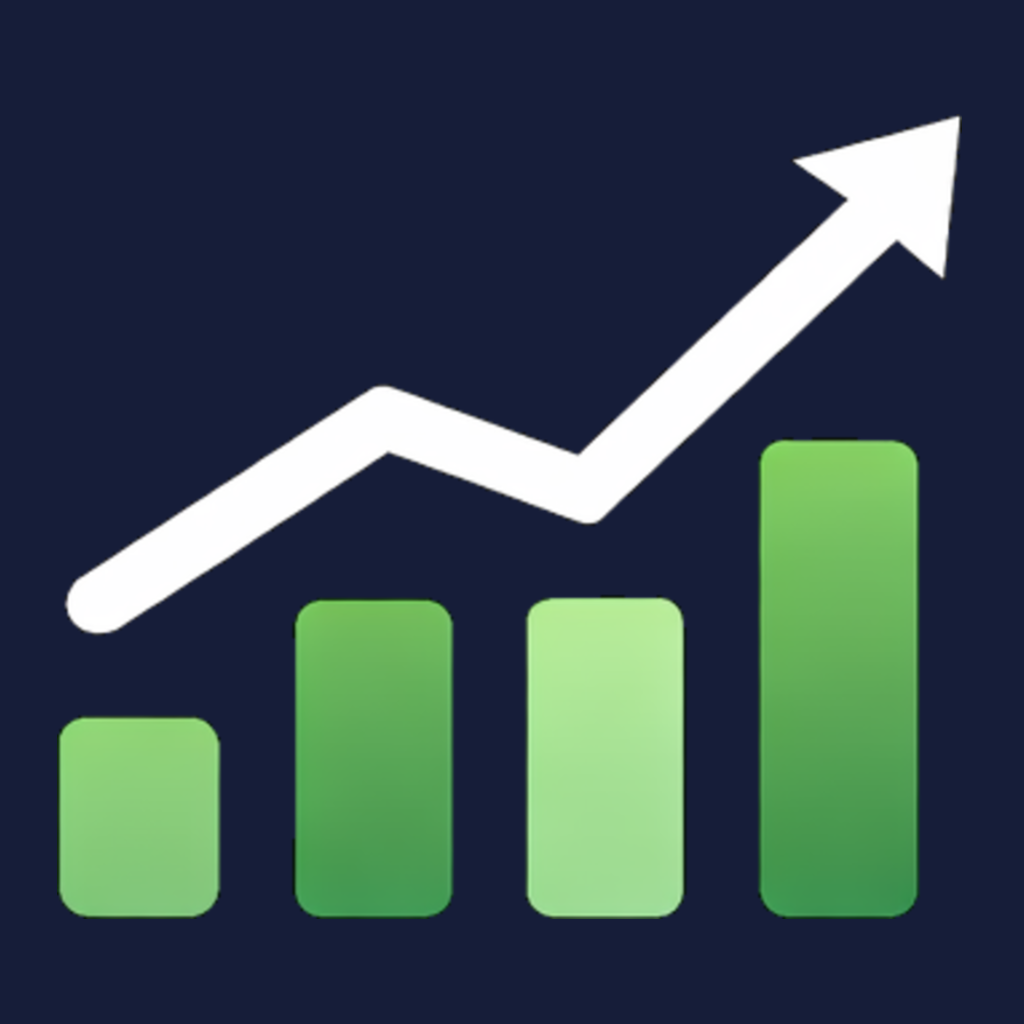
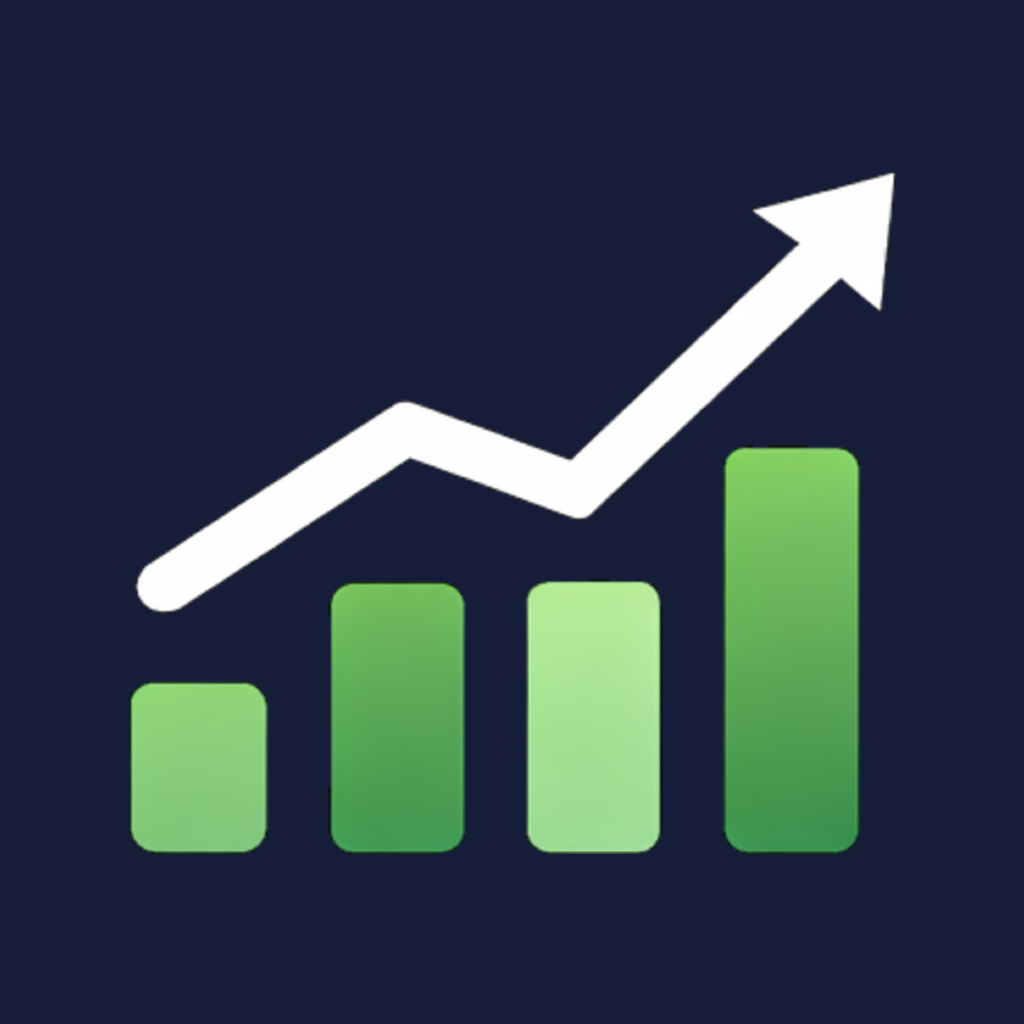
updated rpe and image size

diff --git a/mobile/src/components/activity/ActivityDetailSheet.tsx b/mobile/src/components/activity/ActivityDetailSheet.tsx
@@ -22,6 +22,14 @@ const TYPE_TEXT: Record<string, string> = {
   Run: '#4ade80',
 };
 
+const RPE_DISPLAY: Record<number, { emoji: string; label: string }> = {
+  1: { emoji: '😴', label: 'Very Easy' },
+  2: { emoji: '🙂', label: 'Easy' },
+  3: { emoji: '😤', label: 'Moderate' },
+  4: { emoji: '💪', label: 'Hard' },
+  5: { emoji: '🔥', label: 'Max' },
+};
+
 export default function ActivityDetailSheet({ activity }: ActivityDetailSheetProps) {
   const { user } = useAuthStore();
   const units = getConversionUtils(user);
@@ -114,6 +122,23 @@ export default function ActivityDetailSheet({ activity }: ActivityDetailSheetPro
           ))}
         </View>
       )}
+
+      {activity.perceived_effort && RPE_DISPLAY[activity.perceived_effort] && (
+        <View style={styles.rpeSection}>
+          <Text style={styles.rpeEmoji}>{RPE_DISPLAY[activity.perceived_effort].emoji}</Text>
+          <View>
+            <Text style={styles.rpeLabel}>Perceived Effort</Text>
+            <Text style={styles.rpeValue}>{RPE_DISPLAY[activity.perceived_effort].label}</Text>
+          </View>
+        </View>
+      )}
+
+      {activity.post_activity_notes ? (
+        <View style={styles.notesSection}>
+          <Text style={styles.notesLabel}>Notes</Text>
+          <Text style={styles.notesText}>{activity.post_activity_notes}</Text>
+        </View>
+      ) : null}
     </BottomSheetScrollView>
   );
 }
@@ -164,4 +189,25 @@ const styles = StyleSheet.create({
   },
   secondaryValue: { fontSize: 16, fontWeight: '600', color: '#f1f5f9' },
   secondaryLabel: { fontSize: 11, color: '#64748b' },
+  rpeSection: {
+    flexDirection: 'row',
+    alignItems: 'center',
+    gap: 12,
+    marginTop: 16,
+    backgroundColor: '#0f172a',
+    borderRadius: 10,
+    padding: 12,
+  },
+  rpeEmoji: { fontSize: 28 },
+  rpeLabel: { fontSize: 11, color: '#64748b' },
+  rpeValue: { fontSize: 15, fontWeight: '600', color: '#f1f5f9' },
+  notesSection: {
+    marginTop: 12,
+    backgroundColor: '#0f172a',
+    borderRadius: 10,
+    padding: 12,
+    gap: 4,
+  },
+  notesLabel: { fontSize: 11, color: '#64748b' },
+  notesText: { fontSize: 14, color: '#f1f5f9', lineHeight: 20 },
 });

diff --git a/frontend/src/components/calendar/DroppableCalendarDay.tsx b/frontend/src/components/calendar/DroppableCalendarDay.tsx
@@ -5,6 +5,8 @@ import type { CalendarEntry, StravaActivity } from '../../services/calendarServi
 import { DraggableWorkoutItem } from './DraggableWorkoutItem';
 import { Activity } from 'lucide-react';
 
+const RPE_EMOJI: Record<number, string> = { 1: '😴', 2: '🙂', 3: '😤', 4: '💪', 5: '🔥' };
+
 interface DroppableCalendarDayProps {
   date: Date;
   isCurrentMonth: boolean;
@@ -125,6 +127,7 @@ export function DroppableCalendarDay({
                     {Math.round(activity.moving_time_seconds / 60)}min
                     {activity.average_watts && ` • ${activity.average_watts}W`}
                     {activity.tss && ` • ${Math.round(activity.tss)} TSS`}
+                    {activity.perceived_effort && ` • ${RPE_EMOJI[activity.perceived_effort]}`}
                   </div>
                 </div>
               </div>

diff --git a/mobile/src/screens/CalendarScreen.tsx b/mobile/src/screens/CalendarScreen.tsx
@@ -288,6 +288,7 @@ export default function CalendarScreen() {
                         activity.distance_meters ? `${units.formatDistance(activity.distance_meters)} ${units.distanceUnitShort}` : null,
                         activity.moving_time_seconds ? `${Math.round(activity.moving_time_seconds / 60)}min` : null,
                         activity.average_watts ? `${Math.round(activity.average_watts)}w avg` : null,
+                        activity.perceived_effort ? ({ 1: '😴', 2: '🙂', 3: '😤', 4: '💪', 5: '🔥' } as Record<number, string>)[activity.perceived_effort] : null,
                       ].filter(Boolean).join(' · ')}
                     </Text>
                   </View>

diff --git a/mobile/src/components/modals/PostRideModal.tsx b/mobile/src/components/modals/PostRideModal.tsx
@@ -24,9 +24,9 @@ interface PostRideModalProps {
 const RPE_EMOJIS = [
   { value: 1, emoji: '😴', label: 'Very Easy' },
   { value: 2, emoji: '🙂', label: 'Easy' },
-  { value: 3, emoji: '😊', label: 'Moderate' },
-  { value: 4, emoji: '😤', label: 'Hard' },
-  { value: 5, emoji: '😵', label: 'Max' },
+  { value: 3, emoji: '😤', label: 'Moderate' },
+  { value: 4, emoji: '💪', label: 'Hard' },
+  { value: 5, emoji: '🔥', label: 'Max' },
 ];
 
 export default function PostRideModal({ activity, onAcknowledge, onSkip }: PostRideModalProps) {

diff --git a/frontend/src/services/calendarService.ts b/frontend/src/services/calendarService.ts
@@ -35,6 +35,8 @@ export interface StravaActivity {
   tss?: number;
   intensity_factor?: number;
   type: string;
+  perceived_effort?: number;
+  post_activity_notes?: string;
 }
 
 export interface CalendarData {

diff --git a/mobile/src/services/calendarService.ts b/mobile/src/services/calendarService.ts
@@ -35,6 +35,8 @@ export interface StravaActivity {
   tss?: number;
   intensity_factor?: number;
   type: string;
+  perceived_effort?: number;
+  post_activity_notes?: string;
 }
 
 export interface CalendarData {
